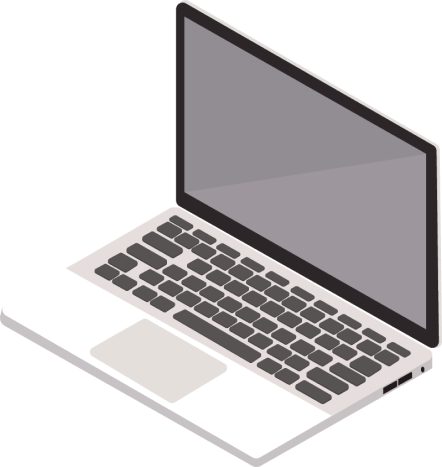
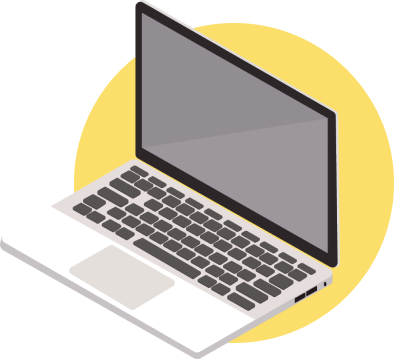
changed colour theme

diff --git a/src/components/Navbar.js b/src/components/Navbar.js
@@ -1,6 +1,7 @@
 import React from 'react';
 import '../styles/navbar.css';
-import Logo from '../img/H{Logo.png'
+import Logo from '../img/H{Logo.png';
+import Hamburger from '../img/hamburger.png'
 
 const Navbar = () => {
   return (
@@ -12,9 +13,10 @@ const Navbar = () => {
         </div>
         <nav className="navigation">
             <ul>
+                <li><a></a></li>
                 <li><a href="/initiatives">Initatives</a></li>
                 <li><a href="/sponsors">Sponsor Us</a></li>
-                <li><a class="highlight-button" target="_blank" href="https://forms.gle/yBCTHgWdBj66JhUV6">Sign Up</a></li>
+                <li><a class="signup-button" target="_blank" href="https://forms.gle/yBCTHgWdBj66JhUV6">Sign Up</a></li>
             </ul>
         </nav>
     </header>

diff --git a/src/styles/navbar.css b/src/styles/navbar.css
@@ -6,7 +6,7 @@
     display: flex;
     justify-content: space-between;
     align-items: center;
-    background-color: #414141;
+    background-color: #FAD12A;
     padding: 2vh 2vw;
     z-index: 1;
     font-weight: bold;
@@ -29,15 +29,25 @@
     text-align: center;
     padding: 0vh 1vw;
     cursor: pointer;
-    color: #ffffff;
+    color: #000000;
 }
 
 .navigation li :hover {
-    color: #FAD12A;
+    
+}
+
+.navigation a {
+    font-size: 1rem;
 }
 
 .navigation li a {
     text-decoration: none;
     color: inherit;
 }
+
+.signup-button {
+    padding: 1vh 2vw 1.5vh 2vw;
+    border: 2px solid #ffffff;
+    border-radius: 25px;
+  }
 

diff --git a/src/styles/initiatives.css b/src/styles/initiatives.css
@@ -1,7 +1,7 @@
 header {
     max-width: 100vw;
     padding: 14vh 6vw 4vh 6vw;
-    background: rgb(20, 20, 20);
+    background: white;
     display: flex;
 }
 
@@ -9,18 +9,22 @@ header h1 {
     margin: auto;
 }
 
+h2 {
+    font-weight: bold;
+}
+
 .greyBackground {
     display: flex;
     justify-content: space-around;
     padding: 10vh 15vw;
-    background-color: #414141;
+    background-color: rgba(250,209,42,0.66);
 }
 
 .blackBackground {
     display: flex;
     justify-content: space-around;
     padding: 10vh 15vw;
-    background-color: rgb(20, 20, 20);
+    background-color:white;
 }
 
 .text {

diff --git a/src/styles/sponsor.css b/src/styles/sponsor.css
@@ -2,8 +2,20 @@
     max-width: 100%;
     min-height: 80vh;
     padding: 22vh 15vw 10vh 15vw;
-    background: rgb(20, 20, 20);
+    background: white;
     text-align: center;
+}
+
+.sponsorUsContainer h1 {
+    font-size: 3rem;
+}
+
+.sponsorUsContainer h3 {
+    font-size: 1.5rem;
+}
+
+a {
+    font-size: 1.25rem;
 }
 
 .sponsorUsContainer h1 {

diff --git a/src/index.css b/src/index.css
@@ -3,7 +3,7 @@
   font-family: -apple-system, BlinkMacSystemFont, 'Segoe UI', 'Roboto', 'Oxygen',
     'Ubuntu', 'Cantarell', 'Fira Sans', 'Droid Sans', 'Helvetica Neue',
     sans-serif;
-  color: white;
+  color: black;
 }
 
 body {
@@ -28,6 +28,10 @@ h2 {
 
 a{
   text-decoration: none;
+}
+
+p {
+  font-size: 1.25rem;
 }
 
 .highlight-button {

diff --git a/src/styles/aboutUs.css b/src/styles/aboutUs.css
@@ -1,7 +1,7 @@
 .aboutUsContainer {
     max-width: 100vw;
     padding: 24vh 6vw 10vh 8vw;
-    background: rgb(20, 20, 20);
+    background: white;
 }
 
 .laptop {
@@ -26,7 +26,7 @@
 }
 
 .laptopImage {
-    width: 25%;
+    width: 30%;
     float: right;
     margin-bottom: 2vh;
 }

diff --git a/src/styles/meetTheTeam.css b/src/styles/meetTheTeam.css
@@ -1,13 +1,12 @@
 .meetTheTeamContainer {
     max-width: 100vw;
     padding: 10vh 6vw 7vh 8vw;
-    background-color: rgb(20, 20, 20);
+    background-color: white;
     text-align: center;
 }
 
 .meetTheTeamTitle {
     text-align: center;
-    color: white;
 }
 
 .teamPhotos {

diff --git a/src/styles/whatWeDo.css b/src/styles/whatWeDo.css
@@ -1,7 +1,7 @@
 .whatWeDoContainer {
     max-width: 100vw;
     padding: 6vh 6vw 7vh 8vw;
-    background-color: #414141;
+    background-color: rgba(250,209,42,0.5);
 }
 
 .whatWeDoContainer h1 {

diff --git a/src/styles/footer.css b/src/styles/footer.css
@@ -1,6 +1,6 @@
 footer {
     width: 100%;
-    background-color: #414141;
+    background-color: #FAD12A;
 }
 
 footer div {
